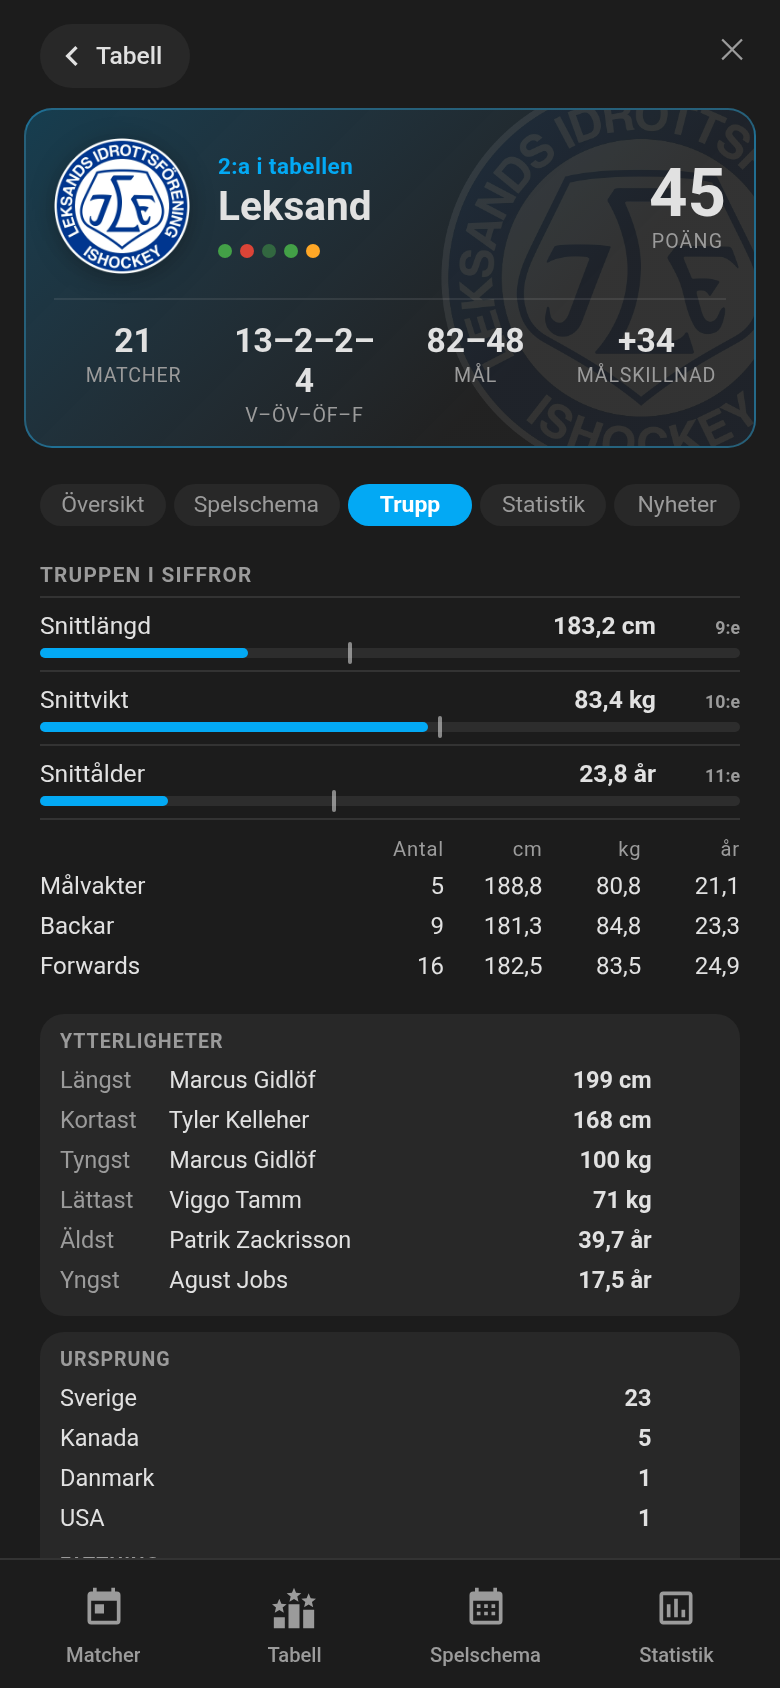
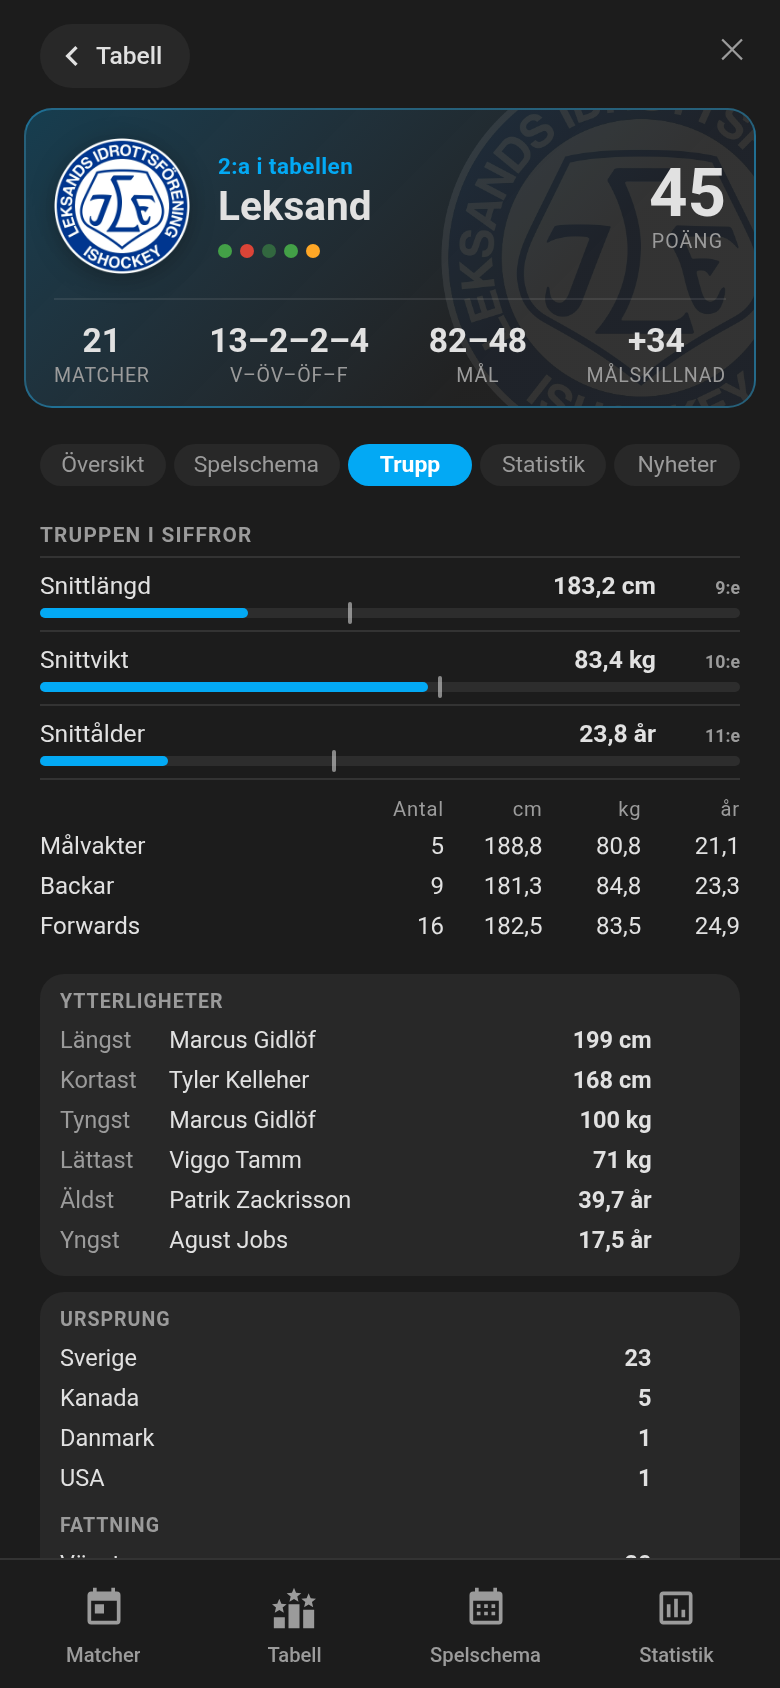
A club's record on one line on a phone, and 1.2.1
The hero's four figures sat in equal columns, and the record ("13-2-2-4"),
the widest of them, broke over two lines at phone width. Each column now
takes what its figure needs, with the space between them; below 360 px the
figures are a little smaller. The README's club-page screenshots are taken
again with the fix.

Claude-Session: https://claude.ai/code/session_01MAKGGSHMR6fydno6A5FNVD

diff --git a/custom_components/swedish_hockey/www/hockey-match-card.js b/custom_components/swedish_hockey/www/hockey-match-card.js
@@ -1398,6 +1398,17 @@ var cardStyles = i`
       }
       .hero-stats .stat-value { font-size: 1.2em; font-weight: 700; }
       .hero-headline { grid-template-columns: repeat(3, minmax(0, 1fr)); }
+      /* A club's record is four numbers and the widest of the four figures:
+         in equal columns "13-2-2-4" broke over two lines on a phone. Each
+         column takes what its figure needs and the rest goes between them. */
+      .team-hero-stats {
+        grid-template-columns: repeat(4, auto);
+        justify-content: space-between;
+      }
+      .team-hero-stats .stat-value { white-space: nowrap; }
+      @media (max-width: 360px) {
+        .team-hero-stats .stat-value { font-size: 1.05em; }
+      }
       .hero-headline .stat-value { font-size: 1.7em; font-weight: 800; }
       .team-head {
         display: flex;
@@ -7340,7 +7351,7 @@ var HockeyTeamView = class extends PartElement {
                 <span class="hero-big-label">poäng</span>
               </div>` : A}
         </div>
-        <div class="hero-stats">
+        <div class="hero-stats team-hero-stats">
           ${stat("Matcher", row.games_played)} ${stat("V\u2013\xD6V\u2013\xD6F\u2013F", record)} ${stat("M\xE5l", goals)}
           ${stat("M\xE5lskillnad", plus(row.goal_difference))}
         </div>

diff --git a/frontend/src/styles.ts b/frontend/src/styles.ts
@@ -674,6 +674,17 @@ export const cardStyles = css`
       }
       .hero-stats .stat-value { font-size: 1.2em; font-weight: 700; }
       .hero-headline { grid-template-columns: repeat(3, minmax(0, 1fr)); }
+      /* A club's record is four numbers and the widest of the four figures:
+         in equal columns "13-2-2-4" broke over two lines on a phone. Each
+         column takes what its figure needs and the rest goes between them. */
+      .team-hero-stats {
+        grid-template-columns: repeat(4, auto);
+        justify-content: space-between;
+      }
+      .team-hero-stats .stat-value { white-space: nowrap; }
+      @media (max-width: 360px) {
+        .team-hero-stats .stat-value { font-size: 1.05em; }
+      }
       .hero-headline .stat-value { font-size: 1.7em; font-weight: 800; }
       .team-head {
         display: flex;

diff --git a/frontend/src/views/team.ts b/frontend/src/views/team.ts
@@ -108,7 +108,7 @@ export class HockeyTeamView extends PartElement {
               </div>`
             : nothing}
         </div>
-        <div class="hero-stats">
+        <div class="hero-stats team-hero-stats">
           ${stat("Matcher", row.games_played)} ${stat("V–ÖV–ÖF–F", record)} ${stat("Mål", goals)}
           ${stat("Målskillnad", plus(row.goal_difference))}
         </div>
